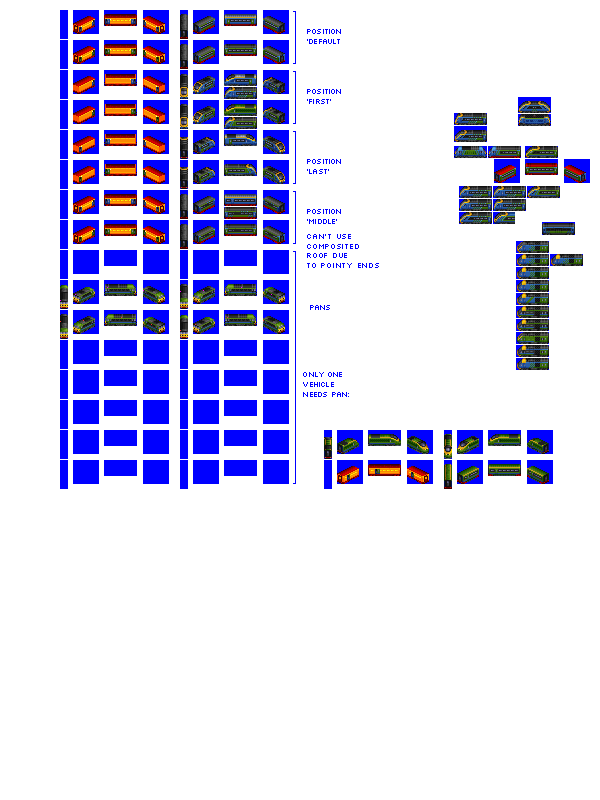
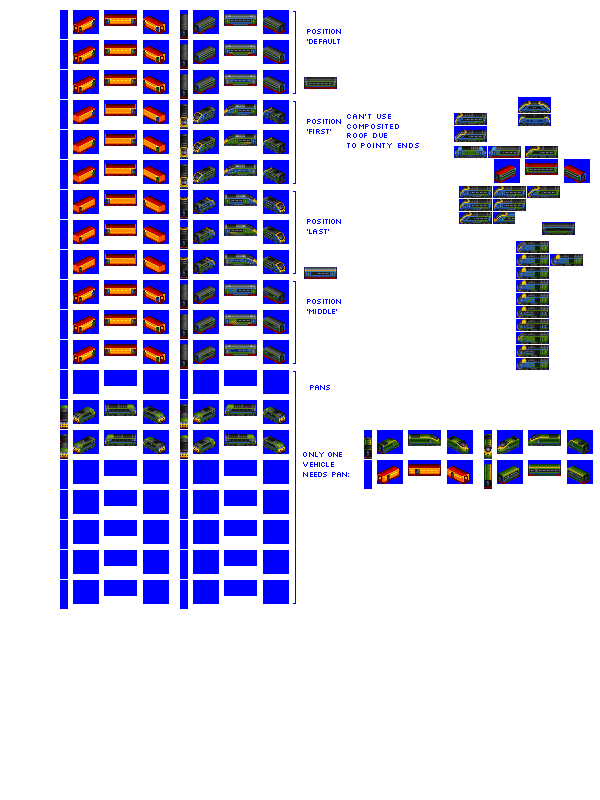
Change: WIP on Borealis

diff --git a/src/vehicles/pony/borealis.py b/src/vehicles/pony/borealis.py
@@ -17,8 +17,8 @@ def main(**kwargs):
         },
         intro_year_offset=-7,  # let's be a little bit earlier for this one - keep match to HST coaches
         gen=6,
-        livery_group_name="gen_6_pax_liveries",  # override default liveries from gestalt
-        pantograph_type="z-shaped-double-with-base",
+        livery_group_name="gen_6_pax_liveries_special_case_jank",  # override default liveries from gestalt
+        pantograph_type="z-shaped-double",
         lgv_capable=True,  # for lolz
         tilt_bonus=True,  # for lolz
         sprites_complete=False,

diff --git a/src/rosters/pony.py b/src/rosters/pony.py
@@ -853,6 +853,13 @@ def main():
                 ("VINYL_VECTOR", 0),
                 ("VAPID_VOYAGER", 1),
             ],
+            # ach special casing crap
+            "gen_6_pax_liveries_special_case_jank": [
+                ("CONVENTIONAL_WISDOM", 0),
+                ("SHOW_PONY", 1),
+                ("INVERSIONS", 2),
+                #("VAPID_VOYAGER", 1),
+            ],
             "gen_3_ng_pax_liveries": [
                 ("MARGINAL_GAINS", 0),
                 ("RAIN_OR_SHINE", 1),

diff --git a/src/vehicles/pony/skeiron_cab.py b/src/vehicles/pony/skeiron_cab.py
@@ -19,7 +19,7 @@ def main(**kwargs):
         },
         gen=6,
         intro_year_offset=-14,  # introduce earlier than gen epoch by design, similar to Brenner
-        liveries=["INVERSIONS", "INVERSIONS", "SURE_PACE"],
+        liveries=["INVERSIONS", "SHOW_PONY", "SURE_PACE"],
         sprites_complete=True,
     )
 
